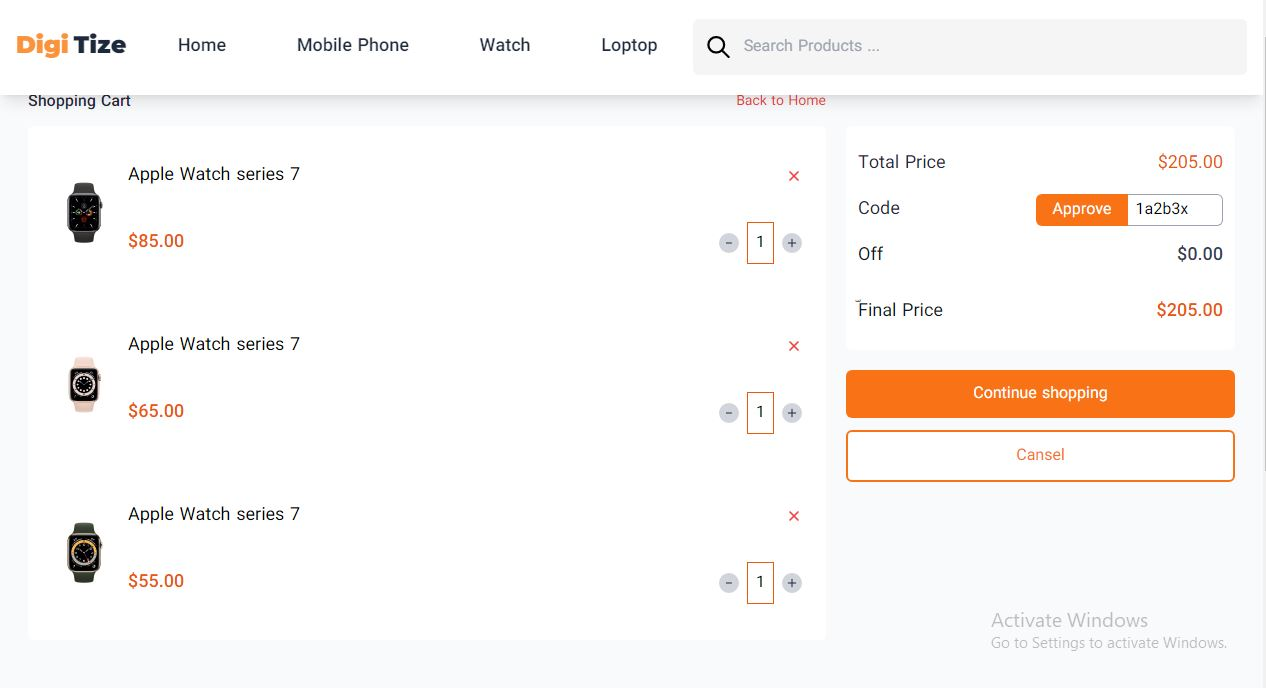
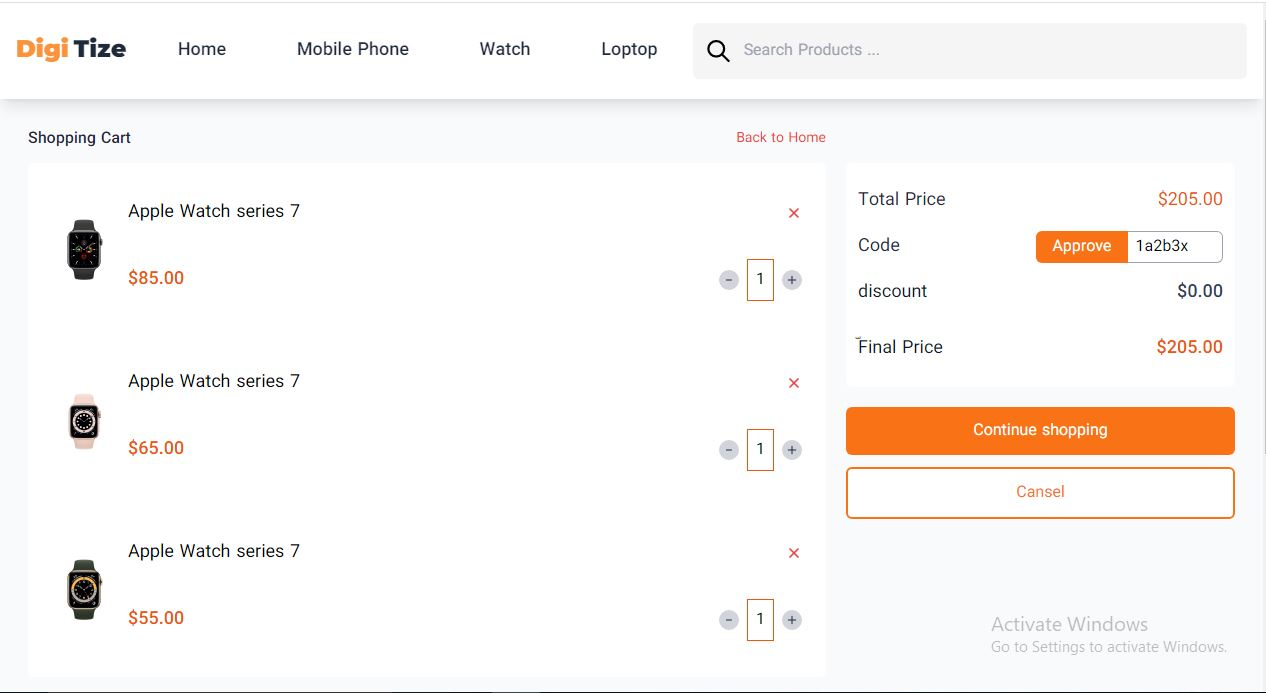
change image of shopping cart

diff --git a/public/shoppingCart.html b/public/shoppingCart.html
@@ -376,7 +376,7 @@
             </div>
           </div>
           <div class="flex justify-between items-center">
-            <span class="text-slate-900 text-base md:text-lg">Off</span>
+            <span class="text-slate-900 text-base md:text-lg">discount</span>
             <span class="text-slate-700 font-medium text-lg"
               ><span>$</span><span class="price-off">0.00</span>
             </span>
